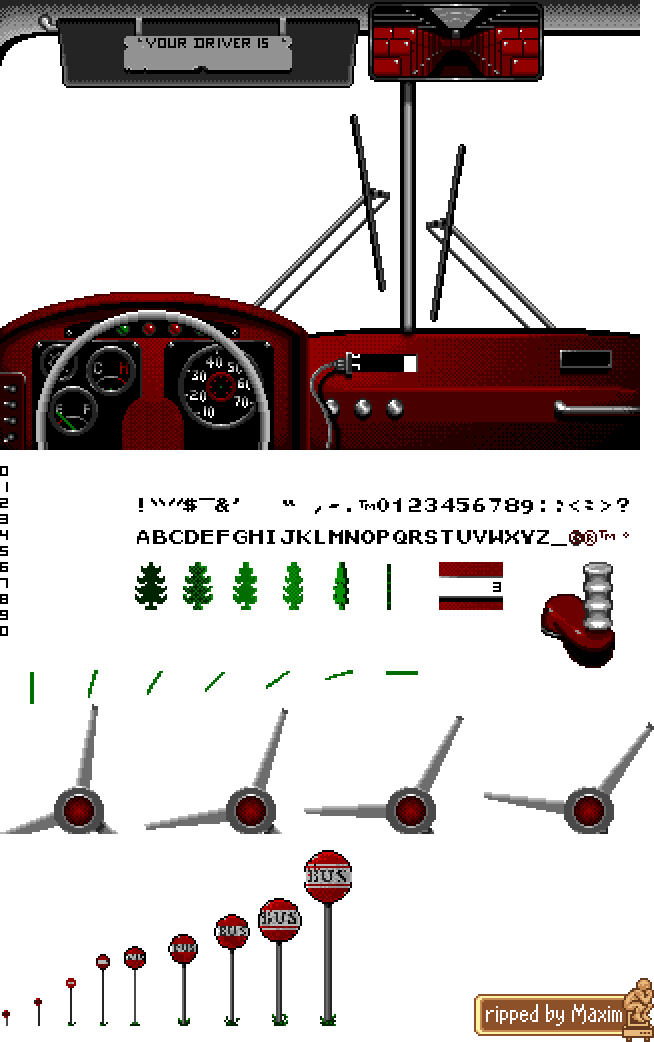
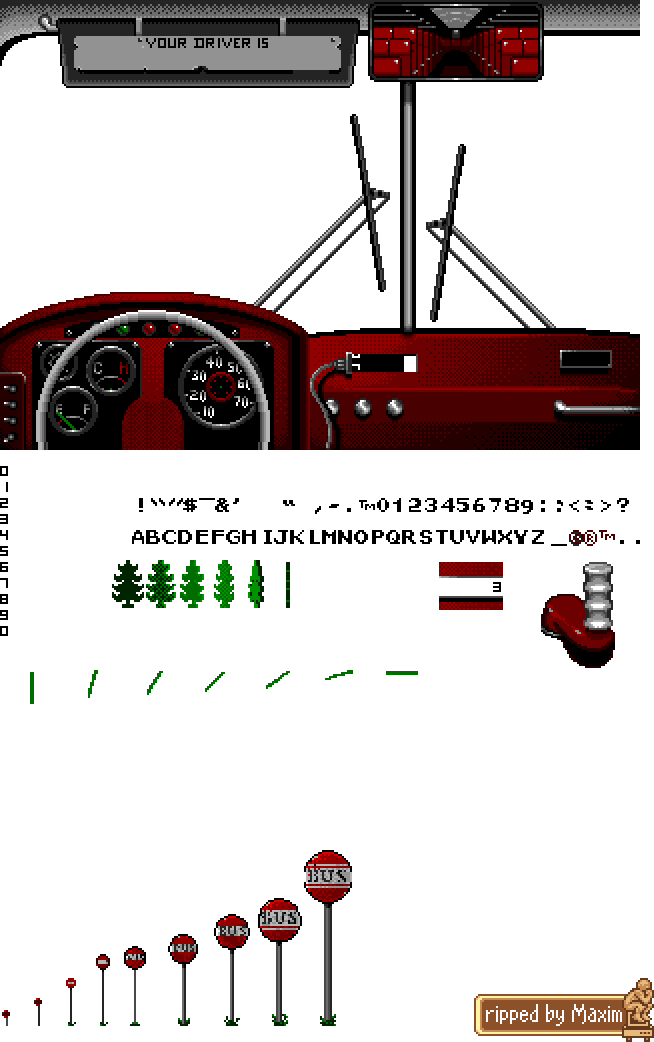
Names work, tree spins

diff --git a/pages/desertbus.css b/pages/desertbus.css
@@ -84,3 +84,35 @@
  
     
 }
+#driver-name {
+    width: 260px;
+    height: 30px;
+    position: absolute;
+    top: 50px;
+    left:79px;
+}
+.nameletter {
+    background-image: url('./images/desertbus.png');
+    background-position-y: -530px;
+    background-position-x: -137px;
+    width: 16px;
+    height:14px;
+    float: left;
+}
+
+#tree {
+    width: 32px;
+    height: 48px;
+    background-image: url('./images/desertbus.png');
+    background-position-y: -560px;
+    background-position-x: -112px;
+    position: absolute;
+    top: 80px;
+    left: 439px;
+    animation: spin 1s steps(6) infinite alternate;
+}
+@keyframes spin {
+    0% { background-position-x: -112px; }
+
+    100% { background-position-x: -304px ; }
+  }

diff --git a/pages/game.html b/pages/game.html
@@ -31,6 +31,8 @@
         </header>
     </div>
     <div id="bus">
+        <div id="tree"></div>
+        <div id="driver-name"></div>
         <div id="speedometer">
             <div id="needle" class="spd-36"></div>
 
